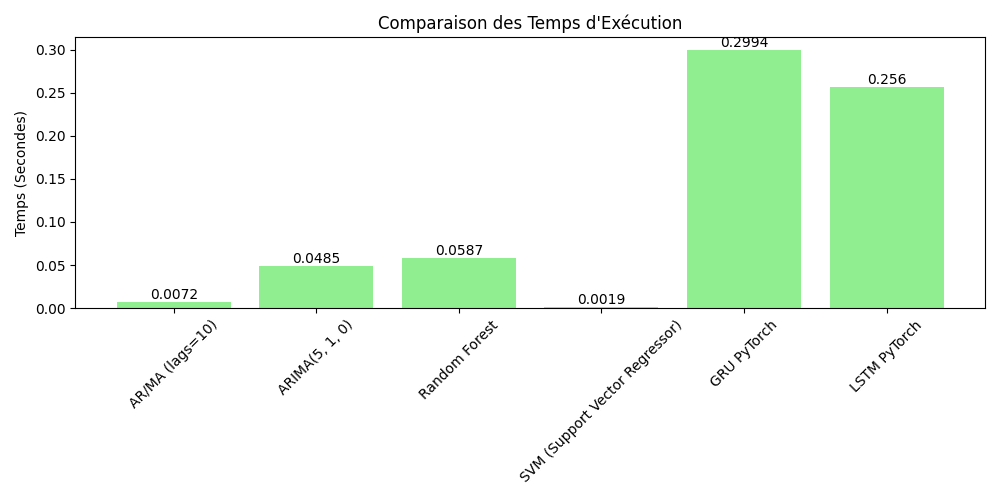
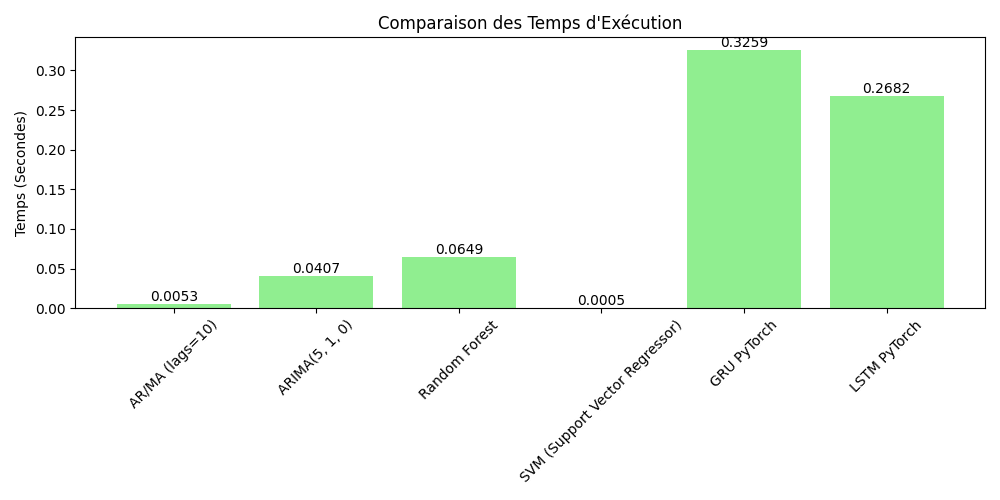
Update traffic prediction models, data generator, and plots

diff --git a/models/nn_model.py b/models/nn_model.py
@@ -5,6 +5,7 @@ import torch
 import torch.nn as nn
 from torch.utils.data import TensorDataset, DataLoader
 from sklearn.metrics import mean_absolute_error
+from sklearn.preprocessing import MinMaxScaler
 
 class GRUModel(nn.Module):
     def __init__(self, input_size=1, hidden_size=32, num_layers=1):
@@ -42,40 +43,48 @@ def create_sequences(data: np.ndarray, seq_length: int, horizon: int):
 def run_nn_model(df: pd.DataFrame, target_col: str, train_frac: float = 0.8, seq_length: int = 10, horizon: int = 1, epochs: int = 20, batch_size: int = 32, model_type: str = 'gru'):
     """
     Exécute un modèle de Réseau de Neurones sur la série de trafic.
-
-    Args:
-        df (pd.DataFrame): DataFrame global.
-        target_col (str): Nom de la colonne faisceau ciblé.
-        train_frac (float): Fraction de données pour l'entraînement.
-        seq_length (int): Longueur de la séquence.
-        horizon (int): Horizon de prédiction k.
-        epochs (int): Nombre d'époques d'entraînement.
-        batch_size (int): Taille de batch.
-        model_type (str): Type de modèle ('gru' ou 'lstm').
-        
-    Returns:
-        dict: contenant les métriques complètes.
     """
     series = df[target_col].values
     
+    # 3. Sécurisation de la taille du Dataset vs Horizon
+    if len(series) < seq_length + horizon + 10:
+        print(f"⚠ AVERTISSEMENT (DL) : Le dataset est trop petit ({len(series)} lignes) pour la séquence ({seq_length}) et l'horizon ({horizon}).")
+        print("L'horizon est automatiquement réduit à 1 pour permettre l'entraînement.")
+        horizon = 1
+        seq_length = min(seq_length, max(1, len(series) // 3))
+        if len(series) < seq_length + horizon + 2:
+            raise ValueError(f"Dataset ridiculement petit ({len(series)}). Impossible de continuer.")
+            
     # Création des séquences (X, y) en tenant compte de l'horizon
     X, y = create_sequences(series, seq_length, horizon)
     
-    if len(X) == 0:
-        raise ValueError("Les données sont trop courtes pour cette séquence et cet horizon.")
-    
-    # Split Train/Test
+    # Split Train/Test (AVANT LA NORMALISATION pour éviter le data leakage)
     split_idx = int(len(X) * train_frac)
     X_train, X_test = X[:split_idx], X[split_idx:]
     y_train, y_test = y[:split_idx], y[split_idx:]
     
     if len(X_train) == 0 or len(X_test) == 0:
-        raise ValueError("Ensemble d'entraînement ou de test vide.")
+        raise ValueError("Ensemble d'entraînement ou de test vide après le split.")
+        
+    # 1. Normalisation obligatoire (MinMaxScaler sur Train, puis appliqué sur Test)
+    scaler_X = MinMaxScaler()
+    scaler_y = MinMaxScaler()
     
-    X_train_t = torch.tensor(X_train, dtype=torch.float32)
-    y_train_t = torch.tensor(y_train, dtype=torch.float32).unsqueeze(1)
-    X_test_t = torch.tensor(X_test, dtype=torch.float32)
-    y_test_t = torch.tensor(y_test, dtype=torch.float32).unsqueeze(1)
+    X_train_scaled = scaler_X.fit_transform(X_train)
+    y_train_scaled = scaler_y.fit_transform(y_train.reshape(-1, 1)).flatten()
+    
+    X_test_scaled = scaler_X.transform(X_test)
+    # On ne normalise pas y_test ici, on le garde en Mbps pour calculer la vraie erreur à la fin.
+    
+    # 4. Ajustement pour les petits datasets (Deep Learning)
+    lr = 0.01
+    if len(X_train) < 200:
+        epochs = max(epochs, 150) # On force plus d'époques si le dataset est tout petit
+        lr = 0.005 # Learning rate ajusté
+        
+    X_train_t = torch.tensor(X_train_scaled, dtype=torch.float32)
+    y_train_t = torch.tensor(y_train_scaled, dtype=torch.float32).unsqueeze(1)
+    X_test_t = torch.tensor(X_test_scaled, dtype=torch.float32)
     
     train_data = TensorDataset(X_train_t, y_train_t)
     train_loader = DataLoader(train_data, shuffle=True, batch_size=batch_size)
@@ -90,7 +99,7 @@ def run_nn_model(df: pd.DataFrame, target_col: str, train_frac: float = 0.8, seq
         raise ValueError("model_type doit être 'gru' ou 'lstm'")
         
     criterion = nn.L1Loss() # MAE
-    optimizer = torch.optim.Adam(model.parameters(), lr=0.01)
+    optimizer = torch.optim.Adam(model.parameters(), lr=lr)
     
     start_time = time.time()
     
@@ -104,16 +113,17 @@ def run_nn_model(df: pd.DataFrame, target_col: str, train_frac: float = 0.8, seq
             loss.backward()
             optimizer.step()
             
-    # Prédiction
+    # Prédiction sur le Test set (valeurs normalisées)
     model.eval()
     with torch.no_grad():
-        test_predictions = model(X_test_t)
+        test_predictions_scaled = model(X_test_t).squeeze(-1).numpy()
         
     end_time = time.time()
     execution_time = end_time - start_time
     
-    pred_np = test_predictions.squeeze(-1).numpy()
-    true_np = y_test_t.squeeze(-1).numpy()
+    # 1. (Suite) Inverse Transform pour récupérer les Mbps (Série réelle)
+    pred_np = scaler_y.inverse_transform(test_predictions_scaled.reshape(-1, 1)).flatten()
+    true_np = y_test # Vérité terrain déjà en Mbps
     
     mae = mean_absolute_error(true_np, pred_np)
     

diff --git a/plot_utils.py b/plot_utils.py
@@ -12,12 +12,19 @@ def plot_single_result(result: dict):
     predictions = result['predictions']
 
     plt.figure(figsize=(10, 6))
-    plt.plot(true_values, label='Série réelle', color='blue', alpha=0.7)
-    plt.plot(predictions, label=f'Prédictions ({model_name})', color='orange', linestyle='--')
+    
+    # Sécurisation de la dimension
+    true_values = np.array(true_values).flatten()
+    predictions = np.array(predictions).flatten()
+    
+    # Trace la "Série réelle" en noir, en trait plein pour l'ancrage visuel
+    plt.plot(true_values, label='Série réelle (Vérité terrain)', color='black', linewidth=2)
+    plt.plot(predictions, label=f'Prédictions ({model_name})', color='orange', linestyle='--', alpha=0.8)
     plt.title(f'Prédiction vs Réalité - {model_name}')
     plt.xlabel('Pas de temps (Test Set)')
     plt.ylabel('Trafic Agrégé (Mbps)')
     plt.legend()
+    plt.autoscale(enable=True, axis='y', tight=False)
     plt.grid(True, linestyle='--', alpha=0.5)
     
     filename = f"results/single_{model_name.replace(' ', '_').replace('/', '_')}.png"
@@ -33,17 +40,37 @@ def plot_comparison(results_list: list):
 
     # 1. Plot superposé des séries temporelles
     plt.figure(figsize=(12, 6))
-    # Ils utilisent tous le même test set (normalement)
-    true_values = results_list[0]['true_values']
-    plt.plot(true_values, label='Série réelle', color='black', linewidth=2)
+    
+    # Recherche d'un true_values non vide (au cas où le 1er modèle a échoué silencieusement)
+    true_values = np.array([])
+    for r in results_list:
+        if len(r['true_values']) > 0:
+            true_values = np.array(r['true_values']).flatten()
+            break
+            
+    # PRINT DE DÉBOGAGE OBLIGATOIRE
+    print("\n--- [DEBUG GRAPH] ---")
+    print(f"Série réelle (5 premières) : {true_values[:5] if len(true_values) > 0 else 'VIDE'}")
+    if len(results_list) > 0:
+        first_valid_preds = np.array(results_list[-1]['predictions']).flatten()
+        print(f"Prédictions du modèle {results_list[-1]['model_name']} (5 premières) : {first_valid_preds[:5]}")
+    print("---------------------\n")
+    
+    if len(true_values) > 0:
+        plt.plot(true_values, label='Série réelle (Vérité terrain)', color='black', linewidth=2)
+    else:
+        print("ATTENTION: La série réelle est complètement vide pour tous les modèles !")
     
     for res in results_list:
-        plt.plot(res['predictions'], label=res['model_name'], linestyle='--', alpha=0.8)
+        preds = np.array(res['predictions']).flatten()
+        if len(preds) > 0:
+            plt.plot(preds, label=res['model_name'], linestyle='--', alpha=0.8)
         
     plt.title('Prédiction vs Réalité - Comparaison des Modèles')
     plt.xlabel('Pas de temps (Test Set)')
     plt.ylabel('Trafic Agrégé (Mbps)')
     plt.legend()
+    plt.autoscale(axis='y')
     plt.grid(True, linestyle='--', alpha=0.5)
     plt.savefig('results/comparison_timeseries.png')
     plt.show()

diff --git a/models/svm_model.py b/models/svm_model.py
@@ -2,7 +2,7 @@ import time
 import numpy as np
 import pandas as pd
 from sklearn.svm import SVR
-from sklearn.preprocessing import StandardScaler
+from sklearn.preprocessing import MinMaxScaler
 from sklearn.metrics import mean_absolute_error
 
 def create_sequences(data: np.ndarray, seq_length: int, horizon: int):
@@ -18,11 +18,17 @@ def run_svm_model(df: pd.DataFrame, target_col: str, train_frac: float = 0.8, se
     """
     series = df[target_col].values
     
+    # 3. Sécurisation de la taille du Dataset vs Horizon
+    if len(series) < seq_length + horizon + 10:
+        print(f"⚠ AVERTISSEMENT (SVM) : Le dataset est trop petit ({len(series)} lignes) pour la séquence ({seq_length}) et l'horizon ({horizon}).")
+        print("L'horizon est automatiquement réduit à 1.")
+        horizon = 1
+        seq_length = min(seq_length, max(1, len(series) // 3))
+        if len(series) < seq_length + horizon + 2:
+            raise ValueError(f"Dataset ridiculement petit ({len(series)}). Impossible de continuer.")
+            
     # Création des séquences (X, y)
     X, y = create_sequences(series, seq_length, horizon)
-    
-    if len(X) == 0:
-        raise ValueError("Les données sont trop courtes pour cette séquence et cet horizon.")
     
     # Split Train/Test
     split_idx = int(len(X) * train_frac)
@@ -32,9 +38,13 @@ def run_svm_model(df: pd.DataFrame, target_col: str, train_frac: float = 0.8, se
     if len(X_train) == 0 or len(X_test) == 0:
         raise ValueError("Ensemble d'entraînement ou de test vide (pas assez de données).")
         
-    # Le SVM est très sensible à l'échelle des données. On standardise.
-    scaler_X = StandardScaler()
+    # 1. Normalisation obligatoire
+    scaler_X = MinMaxScaler()
+    scaler_y = MinMaxScaler()
+    
     X_train_scaled = scaler_X.fit_transform(X_train)
+    y_train_scaled = scaler_y.fit_transform(y_train.reshape(-1, 1)).flatten()
+    
     X_test_scaled = scaler_X.transform(X_test)
     
     # Initialisation du modèle
@@ -43,13 +53,16 @@ def run_svm_model(df: pd.DataFrame, target_col: str, train_frac: float = 0.8, se
     start_time = time.time()
     
     # Entraînement
-    model.fit(X_train_scaled, y_train)
+    model.fit(X_train_scaled, y_train_scaled)
     
     # Prédiction
-    test_predictions = model.predict(X_test_scaled)
+    test_predictions_scaled = model.predict(X_test_scaled)
     
     end_time = time.time()
     execution_time = end_time - start_time
+    
+    # 1. (Suite) Inverse transform pour retrouver les Mbps
+    test_predictions = scaler_y.inverse_transform(test_predictions_scaled.reshape(-1, 1)).flatten()
     
     mae = mean_absolute_error(y_test, test_predictions)
     

diff --git a/main.py b/main.py
@@ -2,7 +2,7 @@ import os
 import sys
 import warnings
 
-from data_generator import generate_fake_traffic_data
+from data_generator import generate_fake_traffic_data, load_real_traffic_data
 from data_aggregator import aggregate_data
 from models.ar_model import run_ar_model
 from models.arima_model import run_arima_model
@@ -40,10 +40,29 @@ def main():
     link_choice = get_user_choice("Votre choix (1 ou 2) : ", [1, 2])
     link_type = 'forward' if link_choice == 1 else 'return'
     
-    print("\nSimulation du trafic en cours...")
+    filename = "tx_throughput.csv" if link_type == 'forward' else "rx_throughput.csv"
+    default_path = os.path.join("..", "PRED_TRAFFIC", "nb_variable_utilisateurs", "scenario1", filename)
+    
+    print(f"\nChargement des données réelles ({filename})...")
+    df = None
+    current_path = default_path
+    
+    while True:
+        try:
+            df = load_real_traffic_data(link_type, current_path)
+            print(f"[{'Voie Aller' if link_type == 'forward' else 'Voie Retour'}] Données chargées avec succès : {len(df)} lignes, 3 faisceaux.")
+            break
+        except FileNotFoundError:
+            print(f"! Erreur : Le fichier est introuvable au chemin : {current_path}")
+            current_path = input(f"Veuillez saisir le chemin absolu (ou relatif) vers le fichier {filename} : ").strip()
+        except IsADirectoryError:
+            print(f"! Erreur : Vous avez saisi le chemin d'un dossier. Vous devez indiquer le chemin jusqu'au fichier (ex: .../Data/{filename}).")
+            current_path = input(f"Veuillez saisir le chemin complet vers le fichier {filename} : ").strip()
+        except Exception as e:
+            print(f"! Erreur inattendue lors de la lecture du fichier : {e}")
+            sys.exit(1)
+            
     num_beams = 3
-    df = generate_fake_traffic_data(duration_hours=48, link_type=link_type, num_beams=num_beams)
-    print(f"[{'Voie Aller' if link_type == 'forward' else 'Voie Retour'}] Jeu de données généré : {len(df)} lignes, {num_beams} faisceaux.")
     
     # Étape 2 : Choix du Faisceau (Dimension Spatiale)
     print("\n2. Sélection du Faisceau (Dimension Spatiale)")

diff --git a/data_generator.py b/data_generator.py
@@ -56,6 +56,48 @@ def generate_fake_traffic_data(
     
     return df
 
+def load_real_traffic_data(link_type: str, file_path: str) -> pd.DataFrame:
+    """
+    Charge les données réelles de trafic depuis un CSV et simule des faisceaux spatiaux.
+    Convertit les Kbps en Mbps.
+    """
+    # Les fichiers de ns-2/scenarioX ont un en-tête et utilisent ';' comme séparateur
+    df_raw = pd.read_csv(file_path, sep=';')
+    
+    # Trouver la colonne contenant le débit (généralement 'throughput (kbps)')
+    col_name = None
+    for c in df_raw.columns:
+        if 'throughput' in c.lower() or 'kbps' in c.lower():
+            col_name = c
+            break
+    if col_name is None:
+        col_name = df_raw.columns[-1]
+        
+    throughput_kbps = df_raw[col_name].values
+    throughput_mbps = throughput_kbps / 1000.0  # Conversion Kbps -> Mbps
+    
+    periods = len(throughput_mbps)
+    # Création d'un index temporel factice d'une résolution de 1 seconde 
+    # pour garder la même structure (compatible avec l'agrégation Pandas)
+    dates = pd.date_range(start='2026-03-31 00:00:00', periods=periods, freq='s')
+    
+    # Génération des 3 faisceaux (50%, 30%, 20%) avec un léger bruit aléatoire
+    np.random.seed(42)
+    beam_1 = throughput_mbps * 0.50 + np.random.normal(0, 0.5, periods)
+    beam_2 = throughput_mbps * 0.30 + np.random.normal(0, 0.3, periods)
+    beam_3 = throughput_mbps * 0.20 + np.random.normal(0, 0.2, periods)
+    
+    # Éviter les valeurs négatives dues au bruit
+    data_dict = {
+        'beam_1': np.maximum(beam_1, 0),
+        'beam_2': np.maximum(beam_2, 0),
+        'beam_3': np.maximum(beam_3, 0)
+    }
+    
+    df = pd.DataFrame(data_dict, index=dates)
+    return df
+
+
 if __name__ == '__main__':
     print("Génération de test de 1 heure de trafic (Voie Aller, 3 Faisceaux)...")
     df = generate_fake_traffic_data(duration_hours=1, link_type='forward', num_beams=3)
